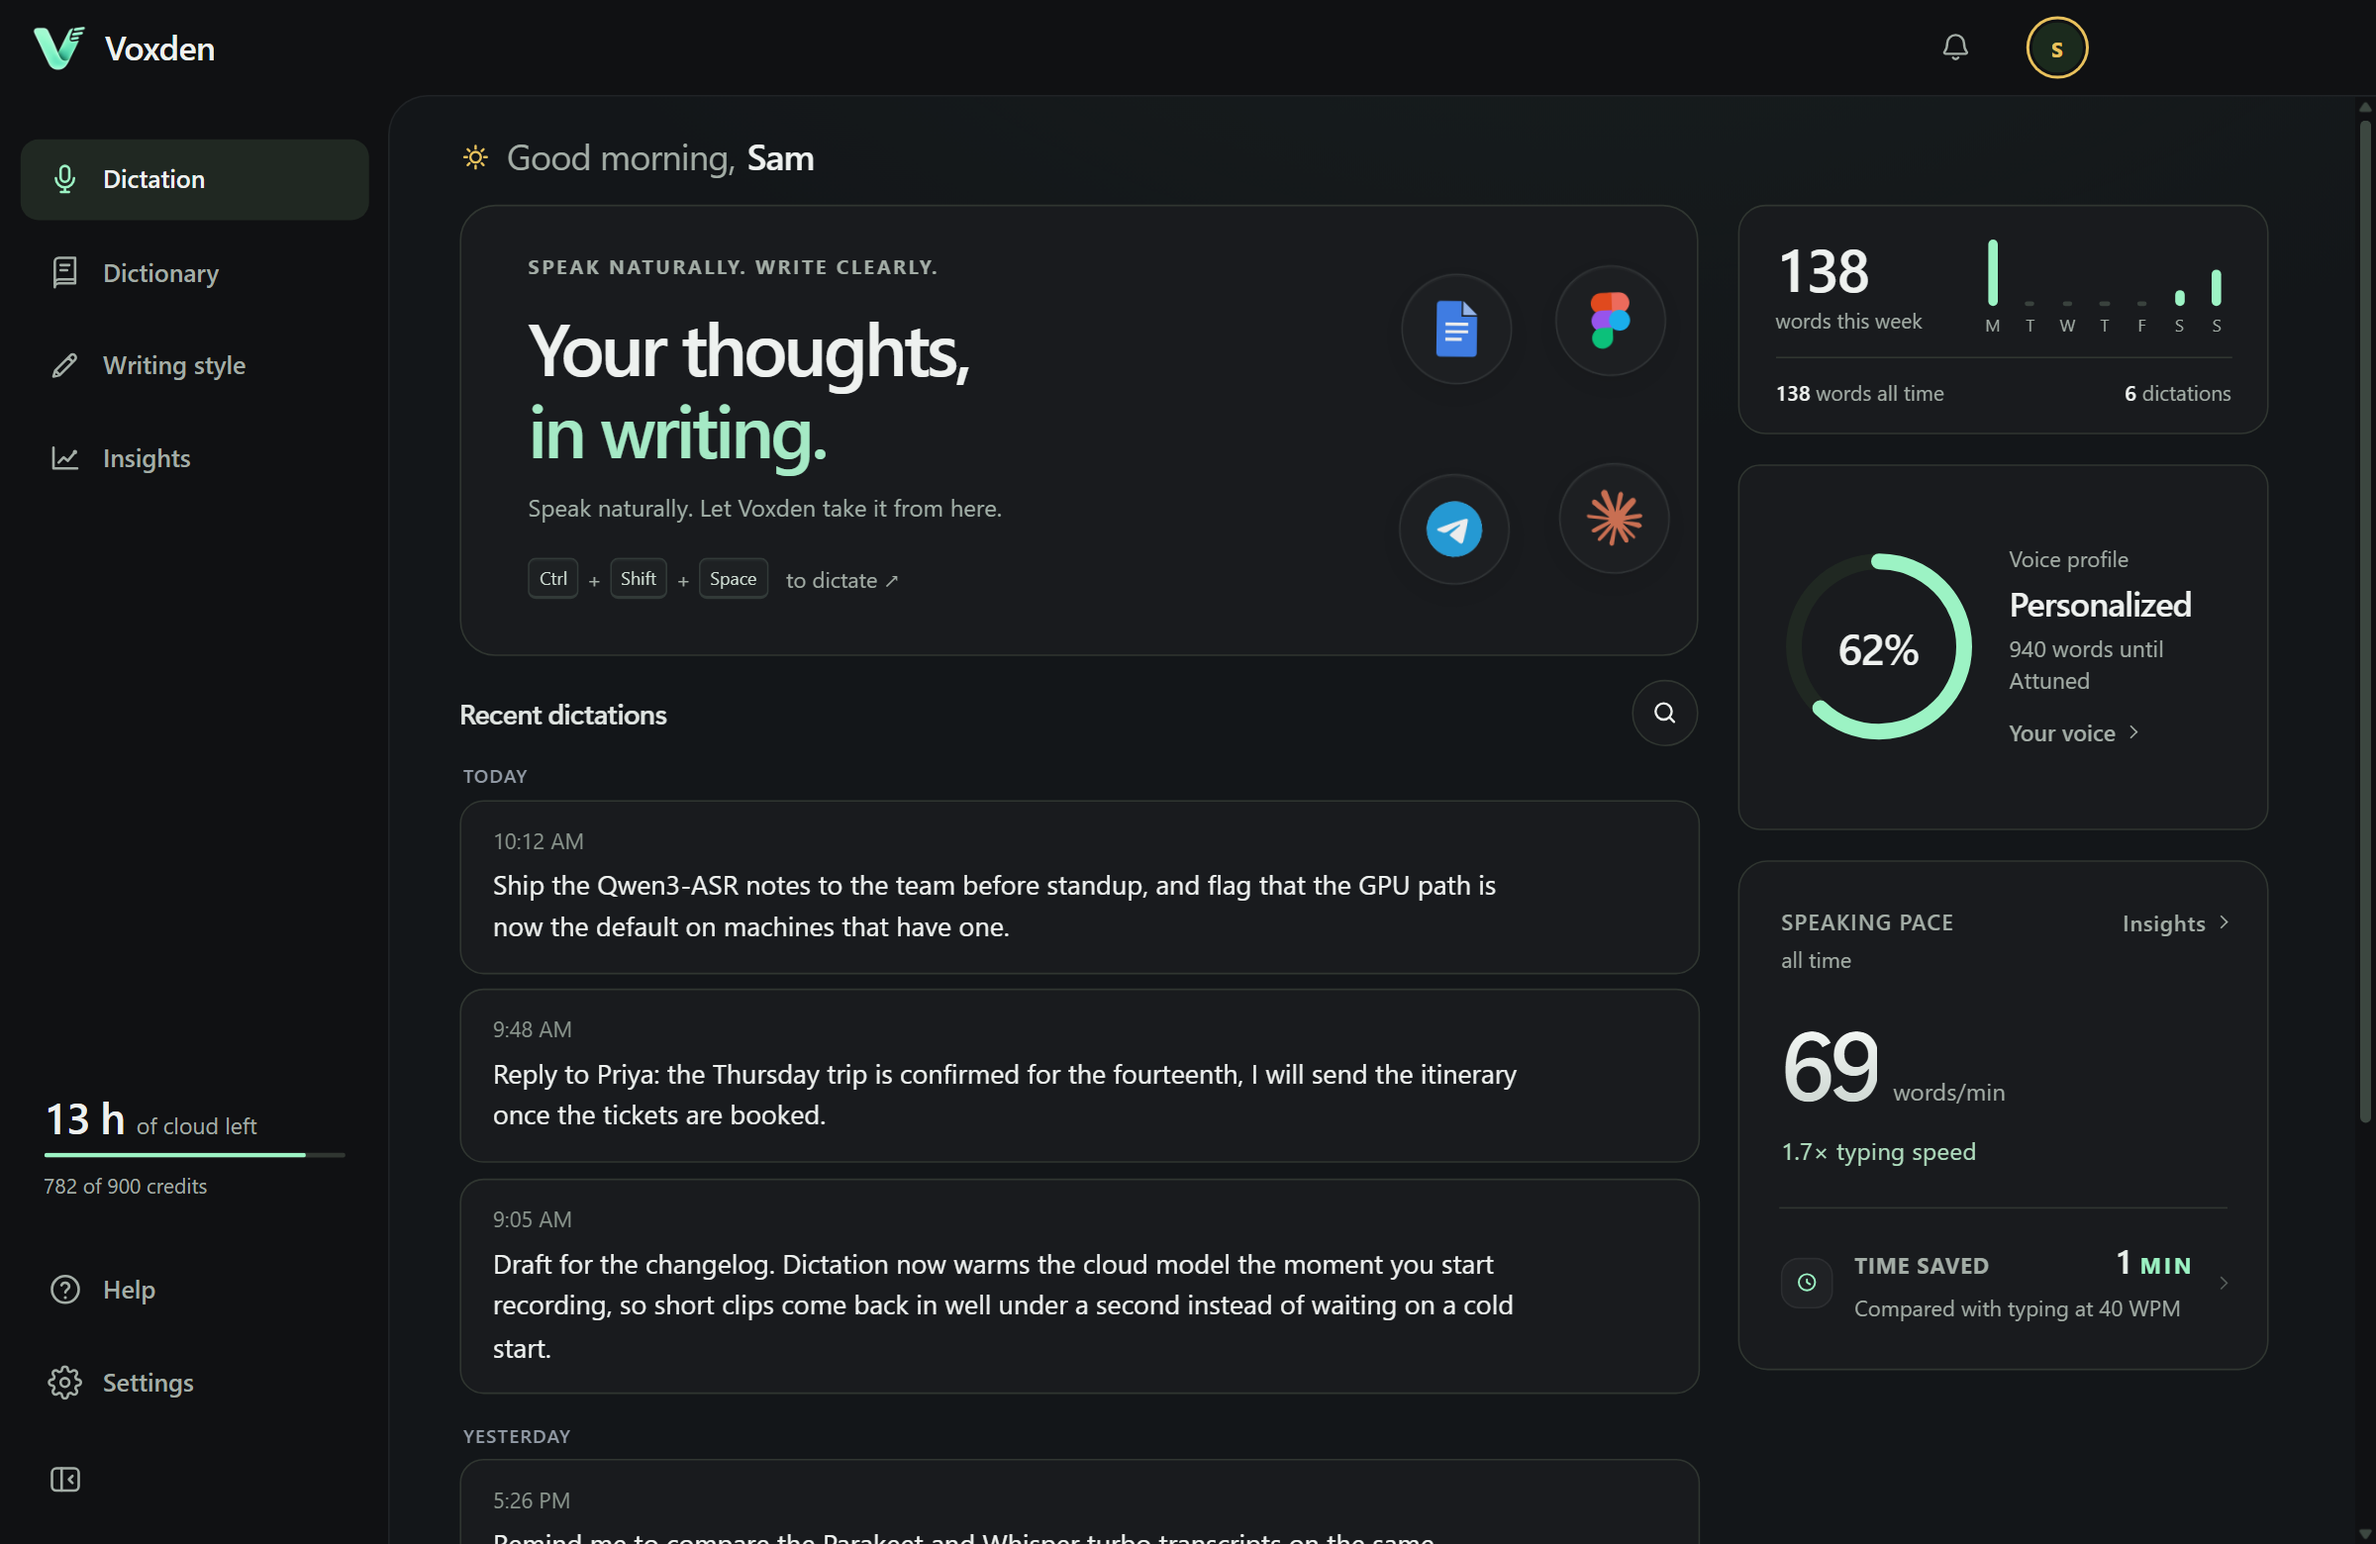
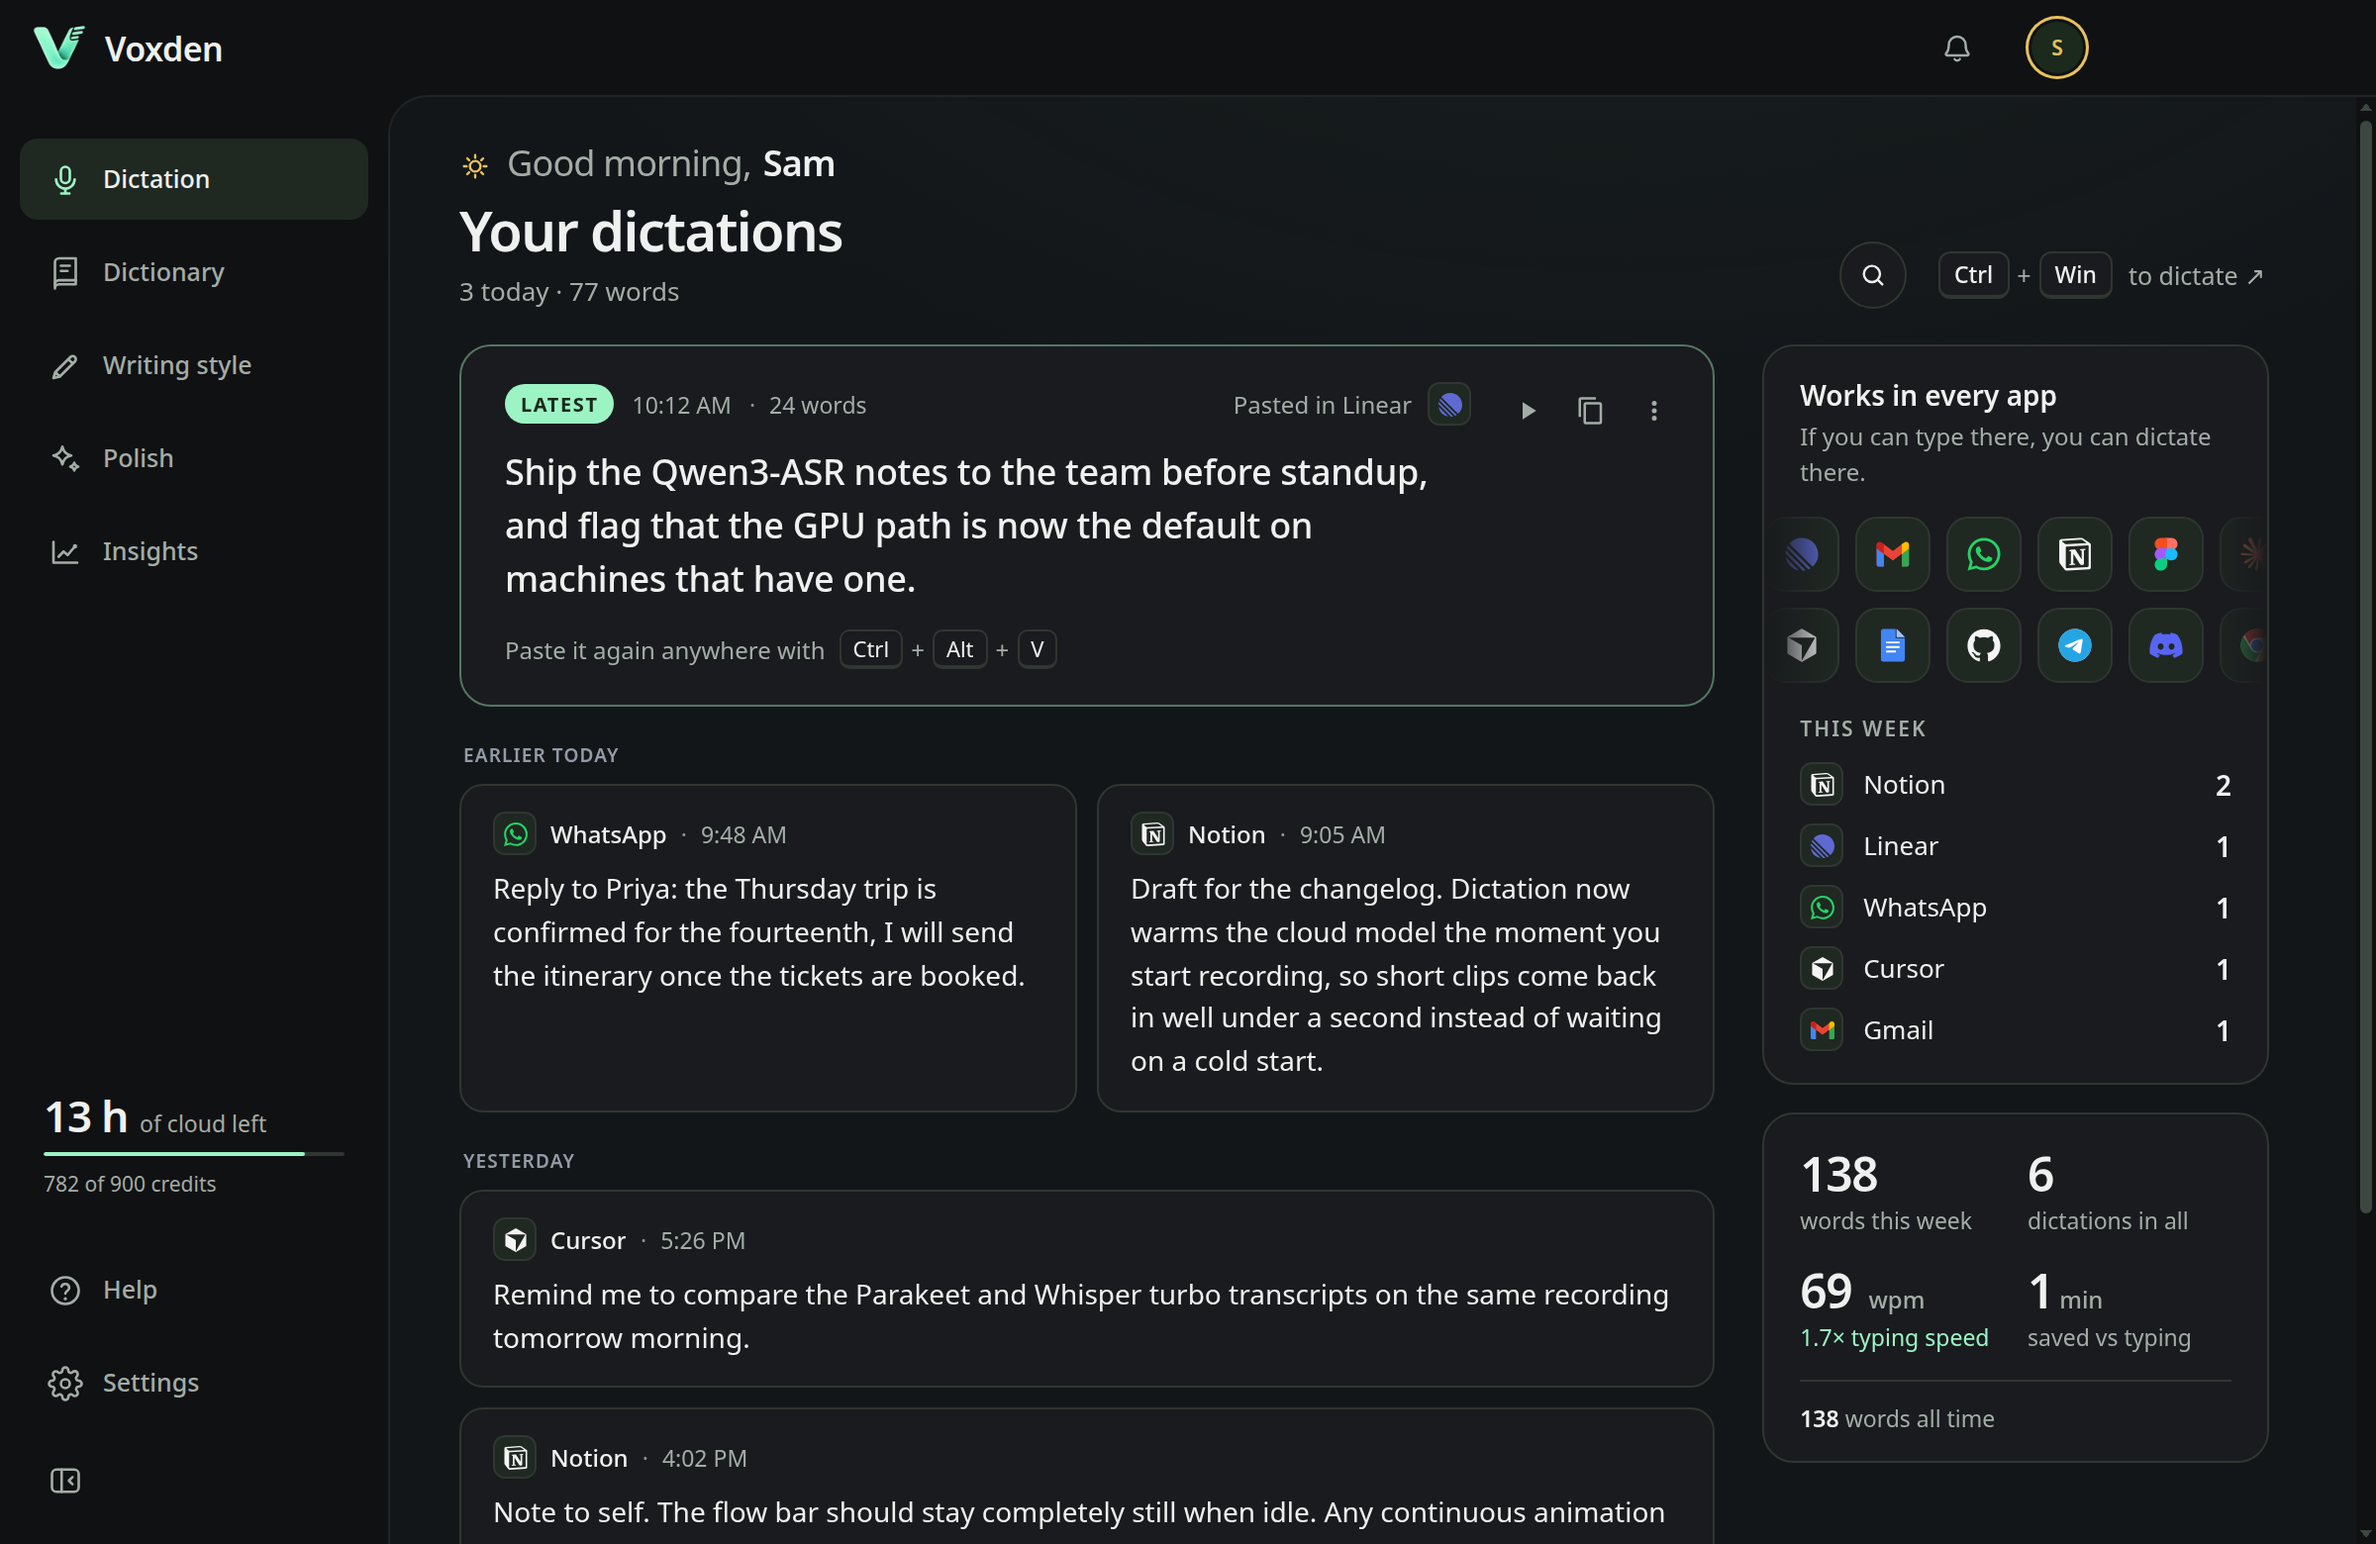
Update the README Dictation screenshot for the new page
Recaptured assets/readme/dashboard.png with
scripts/capture-site-shots.js --readme so it shows the dictations-first
page, and updated its alt text to match.

Claude-Session: https://claude.ai/code/session_01FT4ZRFjgLkX1JKiq8L6jQe

diff --git a/README.md b/README.md
@@ -22,7 +22,7 @@
 </p>
 
 <p align="center">
-  <img src="assets/readme/dashboard.png" width="900" alt="Voxden's Dictation page with recent dictations, the week's words, the voice profile ring and speaking pace">
+  <img src="assets/readme/dashboard.png" width="900" alt="Voxden's Dictation page with your latest dictation first, earlier ones grouped by day, the apps you dictated into this week, and your words, pace and time saved">
 </p>
 
 ## Why Voxden
